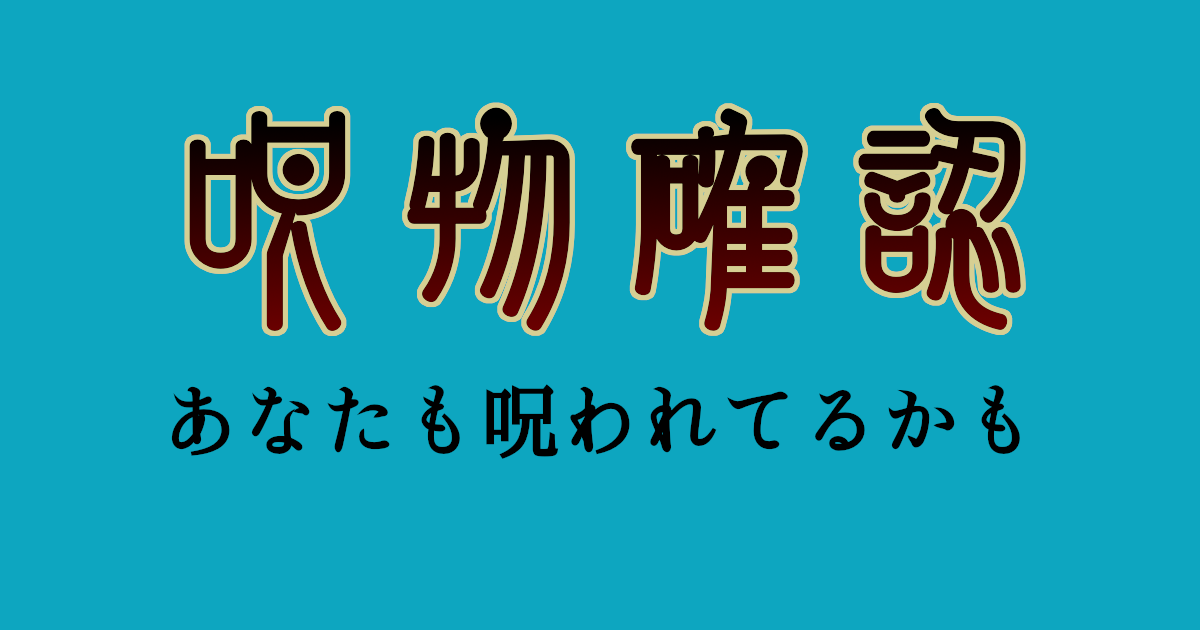
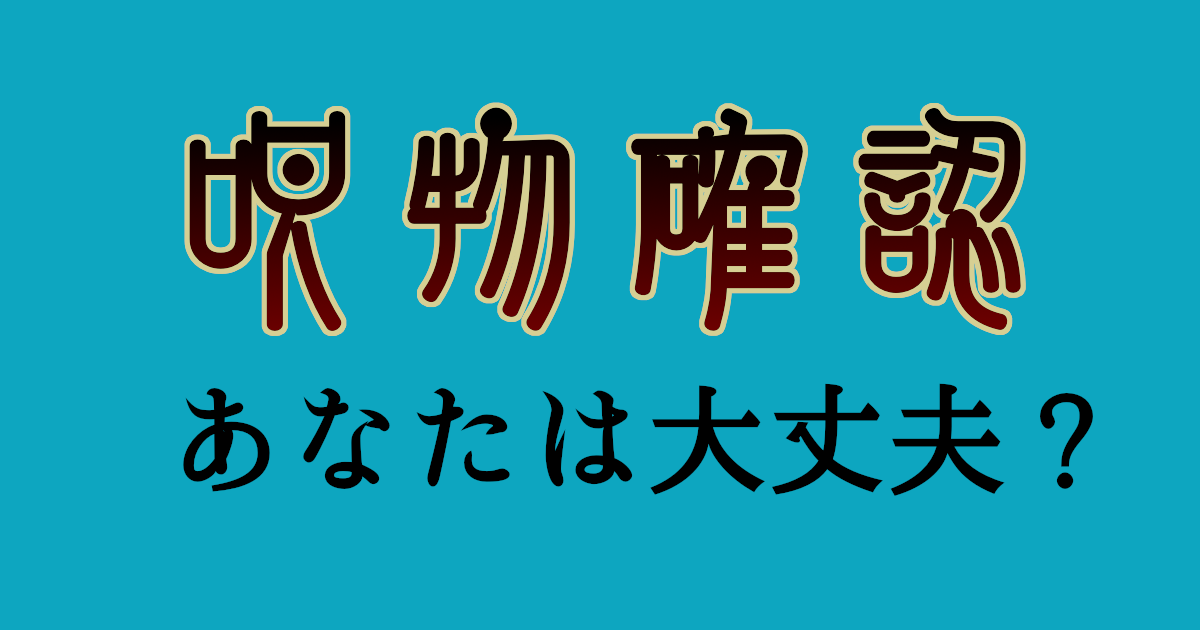
fix: キャッチコピーを変更

Changed region(s): [[0.1233, 0.6032, 0.925, 0.7841]]

diff --git a/app/helpers/application_helper.rb b/app/helpers/application_helper.rb
@@ -2,7 +2,7 @@ module ApplicationHelper
   include Pagy::Frontend
 
   def page_title(page_title = '')
-    base_title = '呪物確認 - あなたも呪われてるかも'
+    base_title = '呪物確認 - あなたは大丈夫？'
 
     page_title.empty? ? base_title : "#{page_title}　|　#{base_title}"
   end
